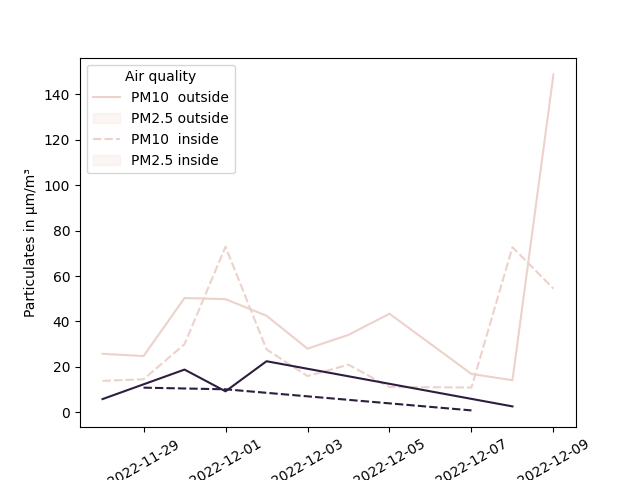
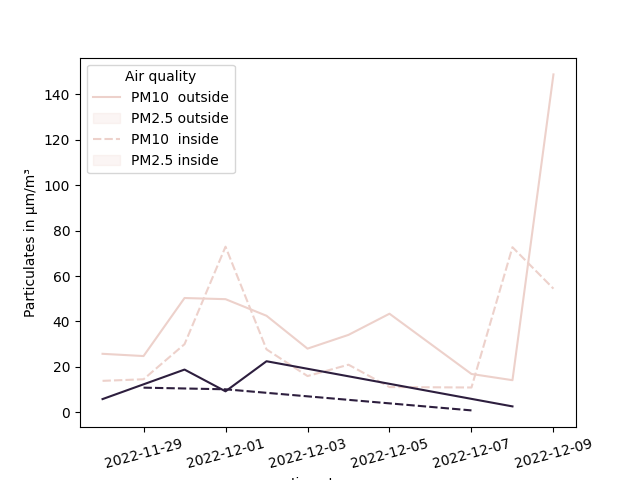
automated update

Changed region(s): [[0.1562, 0.9062, 0.6875, 1.0], [0.8125, 0.9062, 0.9375, 1.0], [0.6875, 0.9062, 0.8125, 1.0]]

diff --git a/analyse_data.py b/analyse_data.py
@@ -25,7 +25,7 @@ def main():
     plot = sns.lineplot(data=df_daily_complex, x="timestamp", y="value",hue="is_indoor",style="value_type")
     plt.legend(title='Air quality', loc='upper left', labels=['PM10  outside', 'PM2.5 outside','PM10  inside','PM2.5 inside'])
     plt.ylabel('Particulates in μm/m³')
-    plt.xticks(rotation=30)
+    plt.xticks(rotation=15)
     fig = plot.get_figure()
     fig.savefig('analysedata/separated.png')  
     plt.cla()
@@ -35,7 +35,7 @@ def main():
     plot2 = sns.lineplot(data=df_daily, x="timestamp", y="value",hue="value_type")
     plt.legend(title='Air quality type', loc='upper left', labels=['PM10', 'PM2.5'])
     plt.ylabel('Particulates in μm/m³')
-    plt.xticks(rotation=30)
+    plt.xticks(rotation=15)
     fig = plot2.get_figure()
     fig.savefig('analysedata/combined.png') 
     plt.cla()
